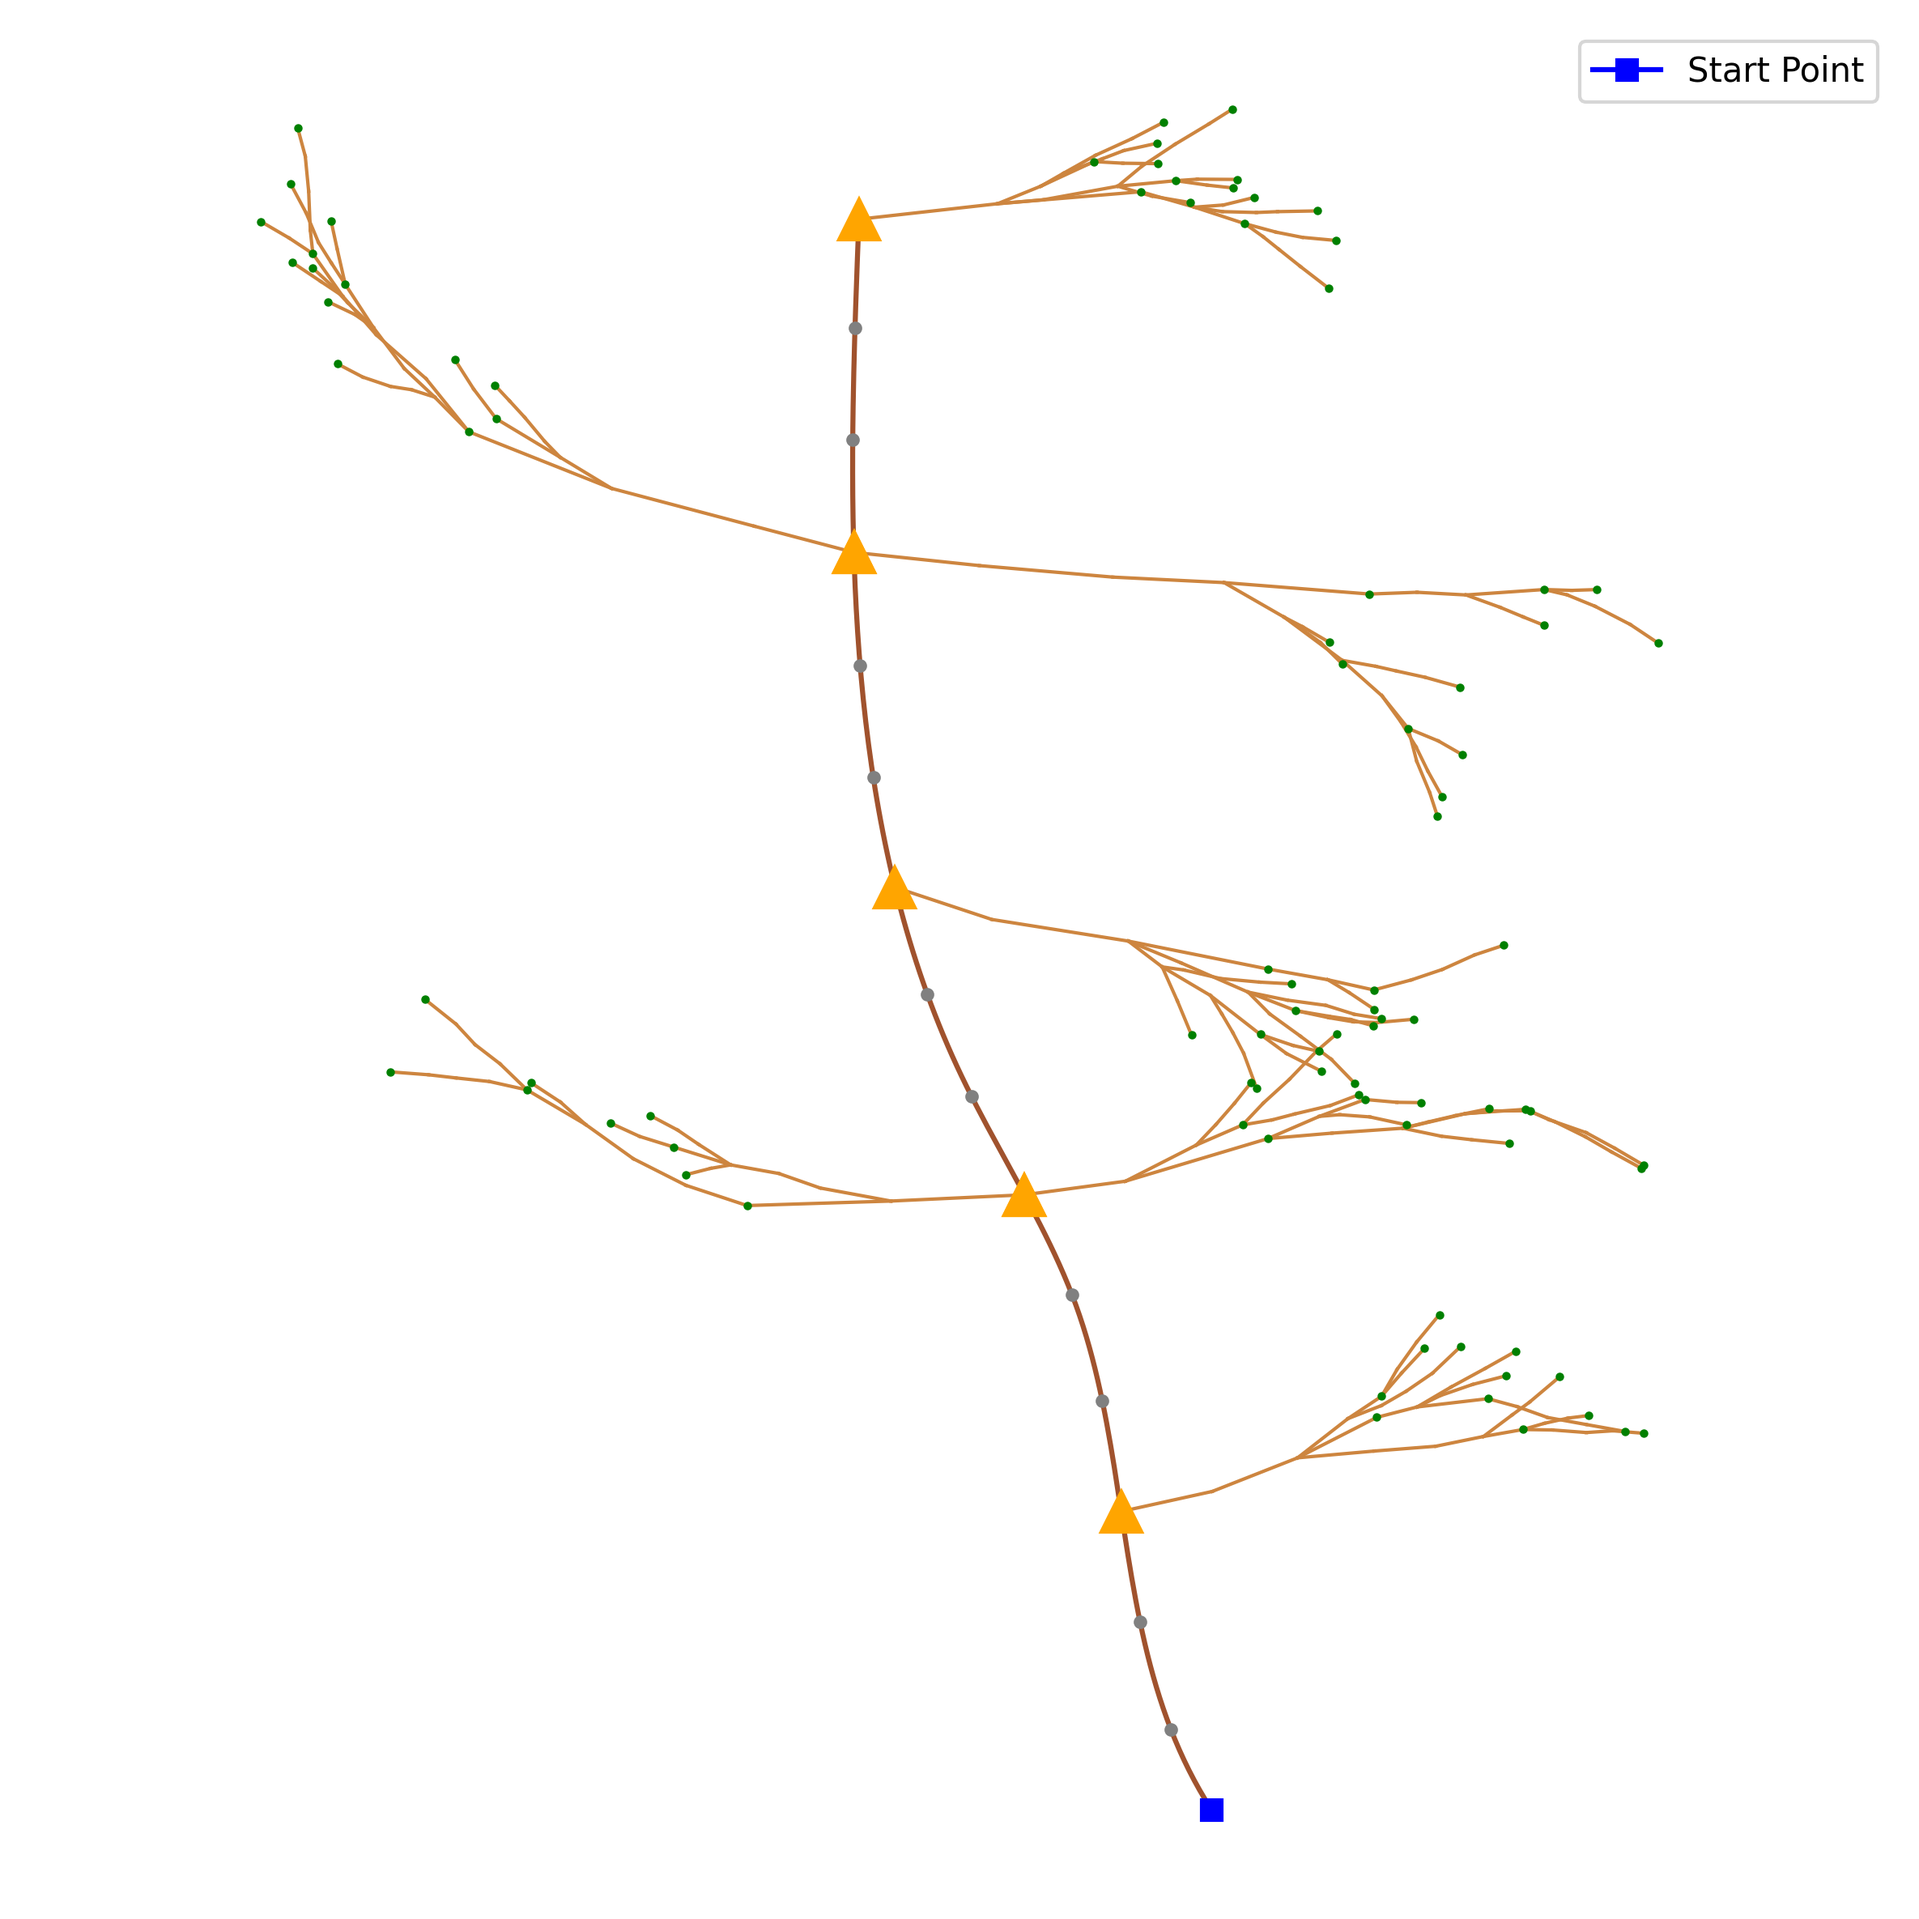
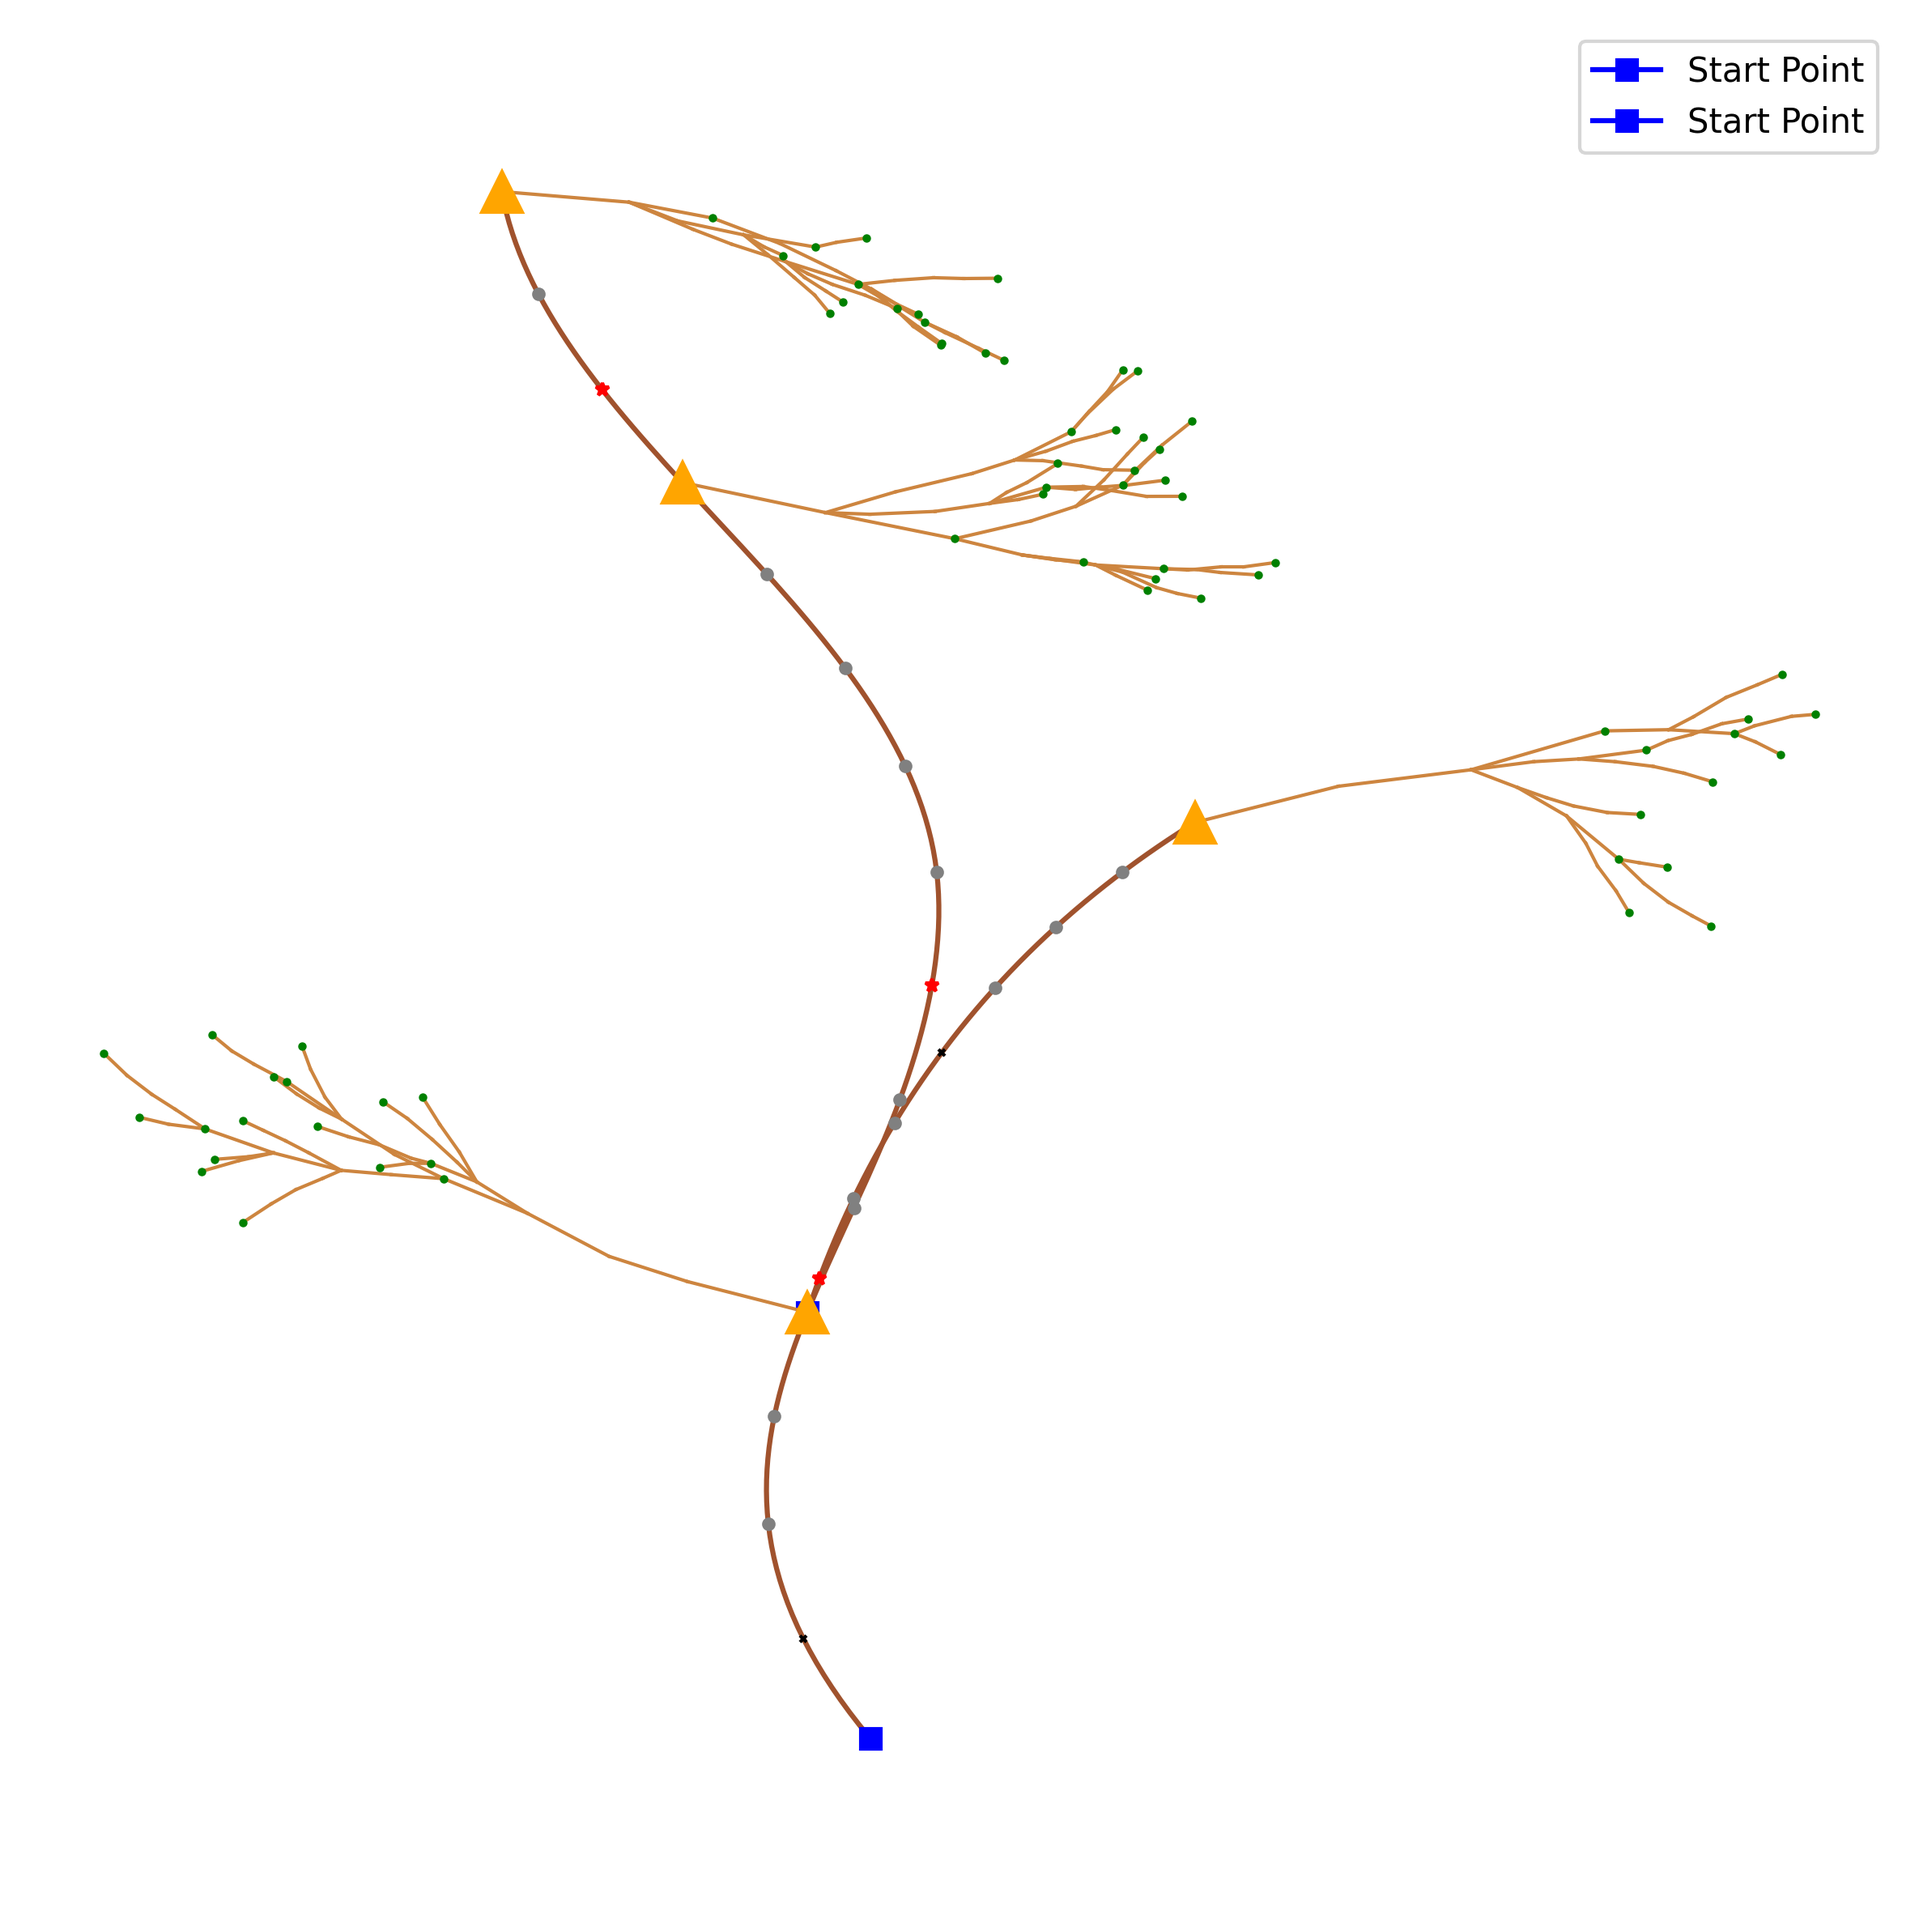
[dev] add logic for sub trunk

diff --git a/recur.py b/recur.py
@@ -9,6 +9,7 @@ from scipy.interpolate import splprep, splev
 all_trunk_segments = []
 all_branch_segments = []
 all_branch_buds = []
+main_trunk = None
 
 
 def grow_branch_recursive(start_pos, angle, depth, max_depth=3, base_step=14, angle_range=(-30, 30)):
@@ -46,8 +47,7 @@ def grow_branch_recursive(start_pos, angle, depth, max_depth=3, base_step=14, an
     buds.append((x, y))
     return segments + [(b, b) for b in buds]
 
-# === 主干生成函数（支持初始位置与方向） ===
-def generate_feedback_trunk_with_buds(n=6, start_pos=(0, 0), start_angle=90, length_range=(20, 40)):
+def generate_trunk_curve(n=6, start_pos=(0, 0), start_angle=90, length_range=(20, 40)):
     ctrl_x = [start_pos[0]]
     ctrl_y = [start_pos[1]]
     angle = start_angle
@@ -80,6 +80,53 @@ def generate_feedback_trunk_with_buds(n=6, start_pos=(0, 0), start_angle=90, len
             while dtheta < -180: dtheta += 360
             total_angle_change += dtheta
 
+    if len(ctrl_x) < 2:
+        return np.array([]), np.array([])
+
+    k = min(3, len(ctrl_x) - 1)
+    tck, u = splprep([ctrl_x, ctrl_y], s=0, k=k)
+    u_fine = np.linspace(0, 1, 150)
+    return splev(u_fine, tck)
+
+# === 主干生成函数（支持初始位置与方向） ===
+def generate_feedback_trunk_with_buds(n=6, start_pos=(0, 0), start_angle=90, length_range=(20, 40)):
+    global all_trunk_segments, main_trunk
+
+    
+    ctrl_x = [start_pos[0]]
+    ctrl_y = [start_pos[1]]
+    angle = start_angle
+    total_angle_change = 0
+
+    for i in range(1, n):
+        if i == 1:
+            delta_angle = random.uniform(-30, 30)
+        else:
+            balance_bias = -0.2 * total_angle_change
+            delta_angle = random.uniform(-40, 40) + balance_bias * 0.5
+        angle += delta_angle
+
+        length = random.uniform(*length_range)
+        dx = math.cos(math.radians(angle)) * length
+        dy = math.sin(math.radians(angle)) * length
+        if i == 1 and dy < 10:
+            dy = 10 + abs(dy)
+
+        ctrl_x.append(ctrl_x[-1] + dx)
+        ctrl_y.append(ctrl_y[-1] + dy)
+
+        if i >= 2:
+            dx1 = ctrl_x[-2] - ctrl_x[-3]
+            dy1 = ctrl_y[-2] - ctrl_y[-3]
+            ang1 = math.atan2(dy1, dx1)
+            ang2 = math.atan2(dy, dx)
+            dtheta = math.degrees(ang2 - ang1)
+            while dtheta > 180: dtheta -= 360
+            while dtheta < -180: dtheta += 360
+            total_angle_change += dtheta
+
+    if len(ctrl_x) < 2:
+        return [], [], []
     k = min(3, len(ctrl_x) - 1)
     tck, u = splprep([ctrl_x, ctrl_y], s=0, k=k)
     u_fine = np.linspace(0, 1, 150)
@@ -89,6 +136,8 @@ def generate_feedback_trunk_with_buds(n=6, start_pos=(0, 0), start_angle=90, len
 
     grow_limit = random.randint(3, 6)
     grow_count = 0
+    sub_trunk_limit = random.randint(1, 2)
+    sub_trunk_count = 0
     last_grow_pos = None
 
     min_dist_between_grows = len(x_vals) // (grow_limit + 1)
@@ -110,8 +159,47 @@ def generate_feedback_trunk_with_buds(n=6, start_pos=(0, 0), start_angle=90, len
         fate = random.choices(['flower', 'dormant', 'abort'], [0.1, 0.7, 0.2])[0] if fate == None else fate
             
         buds.append({ 'pos': (x, y), 'angle': angle, 'fate': fate })
-        if fate == 'grow' and random.random() < 0.5:
-            buds.append({ 'pos': (x, y), 'angle': angle, 'fate': fate })
+        if fate == 'grow':
+            if random.random() < 0.8 and sub_trunk_count < sub_trunk_limit and ratio < 0.6:
+                remaining = (i / len(x_vals))  # 越靠后的 bud，越短
+                sub_n = max(3, int(n * remaining * 1.5))
+                sub_x, sub_y = generate_trunk_curve(
+                    n=sub_n,
+                    start_pos=(x, y),
+                    start_angle=angle + random.uniform(-40, 40),
+                    length_range=(20, 40)
+                )
+                if len(sub_x) > 0 and len(sub_y) > 0:
+                    if len(sub_x) > 0:
+                        all_trunk_segments.append((sub_x, sub_y))
+
+                        sub_buds = []
+                        sub_grow_limit = random.randint(0, 3)
+                        sub_grow_count = 0
+                        last_sub_grow_pos = None
+                        min_sub_dist = len(sub_x) // (sub_grow_limit + 1)
+
+                        for j in range(len(sub_x) - 2, 4, -20):
+                            sx, sy = sub_x[j], sub_y[j]
+                            sdx = sub_x[j+1] - sub_x[j-1]
+                            sdy = sub_y[j+1] - sub_y[j-1]
+                            s_angle = math.degrees(math.atan2(sdy, sdx))
+
+                            sub_fate = None
+                            if sub_grow_count < sub_grow_limit:
+                                if last_sub_grow_pos is None or last_sub_grow_pos - j >= min_sub_dist:
+                                    if random.random() < 0.6:
+                                        sub_fate = 'grow'
+                                        sub_grow_count += 1
+                                        last_sub_grow_pos = j
+                            sub_fate = random.choices(['flower', 'dormant', 'abort'], [0.1, 0.7, 0.2])[0] if sub_fate is None else sub_fate
+                            sub_buds.append({ 'pos': (sx, sy), 'angle': s_angle, 'fate': sub_fate })
+
+                        buds.extend(sub_buds)
+                    sub_trunk_count += 1
+            elif random.random() < 0.5:
+                # 双分叉
+                buds.append({ 'pos': (x, y), 'angle': angle, 'fate': fate })
 
     all_trunk_segments.append((x_vals, y_vals))
     return x_vals, y_vals, buds
@@ -125,8 +213,6 @@ def draw_random_trunk_curve(filename="trunk_with_branches.png"):
 
     # 主干
     x_vals, y_vals, all_buds = generate_feedback_trunk_with_buds(n=6)
-
-
 
     # 从部分芽点生成分支
     for bud in all_buds:
@@ -152,6 +238,7 @@ def draw_random_trunk_curve(filename="trunk_with_branches.png"):
     for (x, y) in all_trunk_segments:
         plt.plot(x, y, color='sienna', linewidth=1.5)
     plt.plot(all_trunk_segments[0][0][0], all_trunk_segments[0][1][0], marker='s', color='blue', markersize=6, label='Start Point')
+    plt.plot(x_vals[0], y_vals[0], marker='s', color='blue', markersize=6, label='Start Point')
 
     for (x0, y0), (x1, y1) in all_branch_segments:
         plt.plot([x0, x1], [y0, y1], color='peru', linewidth=1)
